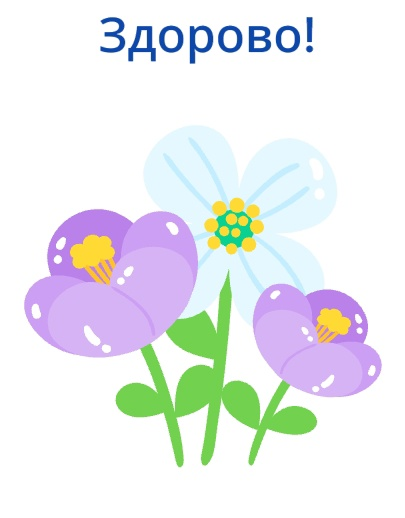
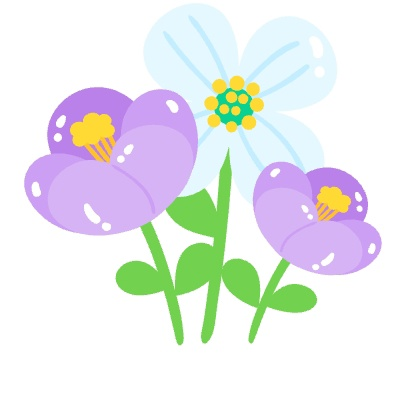
pic deleted and added without signature

diff --git a/src/features/TaskResultBanner/components/TaskResultBanner.vue b/src/features/TaskResultBanner/components/TaskResultBanner.vue
@@ -9,7 +9,8 @@
                 />
             </div>
             <div class="left-result">
-                <div>
+                <div class="left-result__greetings">
+                    <h4 class="left-result__title-h4">Здорово!</h4>
                     <img
                         class="left-result__flowers"
                         src="@app\assets\backgrounds\flowers.png"
@@ -96,13 +97,35 @@ const hide = () => {
     gap: 48px;
 }
 
-.left-result__flowers {
+.left-result__greetings {
+    display: flex;
+    flex-direction: column;
+    align-items: center;
+    justify-content: center;
     width: 203px;
     height: 260px;
+    gap: 28px;
     @media (max-width: 1024px) {
         height: 217px;
         width: 164px;
+        gap: 24px;
     }
+}
+
+.left-result__flowers {
+    width: 203px;
+    height: 198px;
+    @media (max-width: 1024px) {
+        height: 160px;
+        width: 164px;
+    }
+}
+
+.left-result__title-h4 {
+    font-family: 'Nunito', sans-serif;
+    font-size: 24px;
+    font-weight: 500;
+    color: $darkBlue;
 }
 
 .left-result__button {

diff --git a/src/features/FourthTask/components/FourthTask.vue b/src/features/FourthTask/components/FourthTask.vue
@@ -1,7 +1,6 @@
 <template>
     <div class="FourthTask task_block">
         <div class="task_block__wrapper">
-           
             <template v-if="false">
                 <div class="task_block__close" @click="hide">
                     <img
@@ -160,14 +159,14 @@ const hide = () => {
     width: 271px;
     height: 48px;
     background-color: #fff;
-    color: #0d47aa;
+    color: $darkBlue;
     font-family: 'Nunito', sans-serif;
     font-size: 20px;
     letter-spacing: 0;
     border-radius: 30px;
     font-weight: 400;
     line-height: 48px;
-    border: 1.5px solid #0d47aa;
+    border: 1.5px solid $darkBlue;
 }
 
 .draggable-list__button-speaker,

diff --git a/src/app/css/variables.scss b/src/app/css/variables.scss
@@ -1,17 +1,18 @@
-$footer: #9FE0FC;
+$footer: #9fe0fc;
 $layout: #fff;
-$header: #DACBF7;
+$header: #dacbf7;
 $text-primary: #313131;
 $text-secondary: #ffffff;
-$button-primary: #4D65E5;
+$button-primary: #4d65e5;
 $button-secondary: #b3cdf9;
 $grey: #818181;
-$pink: #FAE6F2;
-$lightPink: #FFCCE4;
-$light-green: #C8EFC5;
-$green: #5CCF54;
-$error: #FF535C;
+$pink: #fae6f2;
+$lightPink: #ffcce4;
+$light-green: #c8efc5;
+$green: #5ccf54;
+$error: #ff535c;
 $black: #313131;
-$greenGame: #B5F9AD;
-$blueGame: #D2EFFF;
-$vihous: #C62582;
+$greenGame: #b5f9ad;
+$blueGame: #d2efff;
+$vihous: #c62582;
+$darkBlue: #0d47aa;
